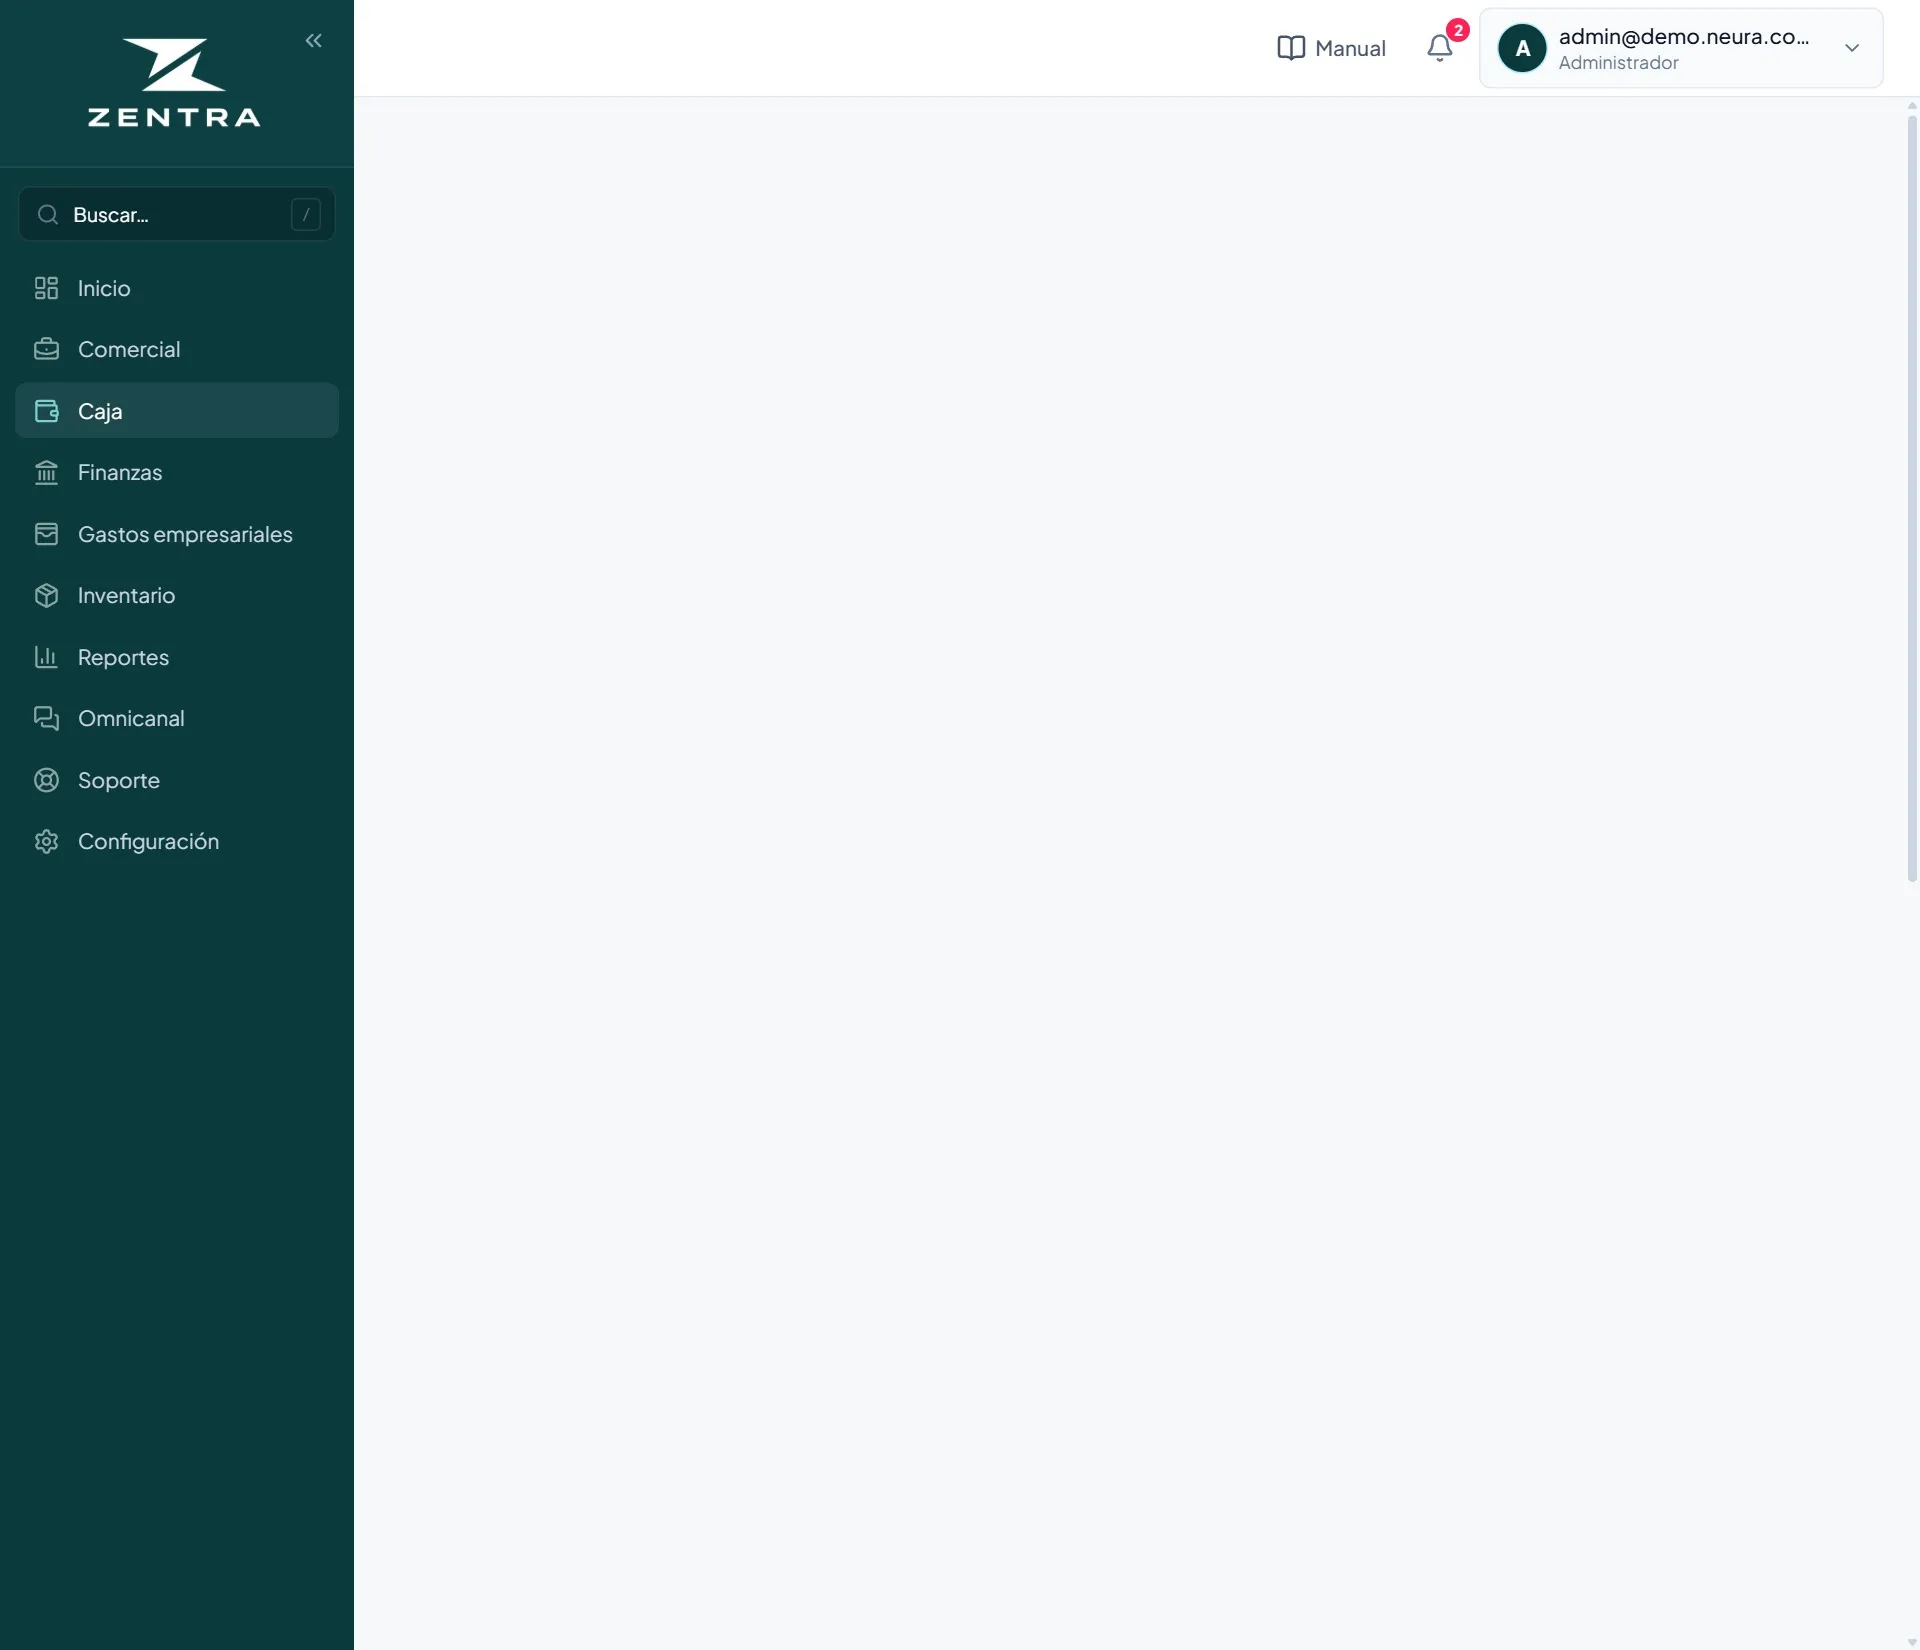
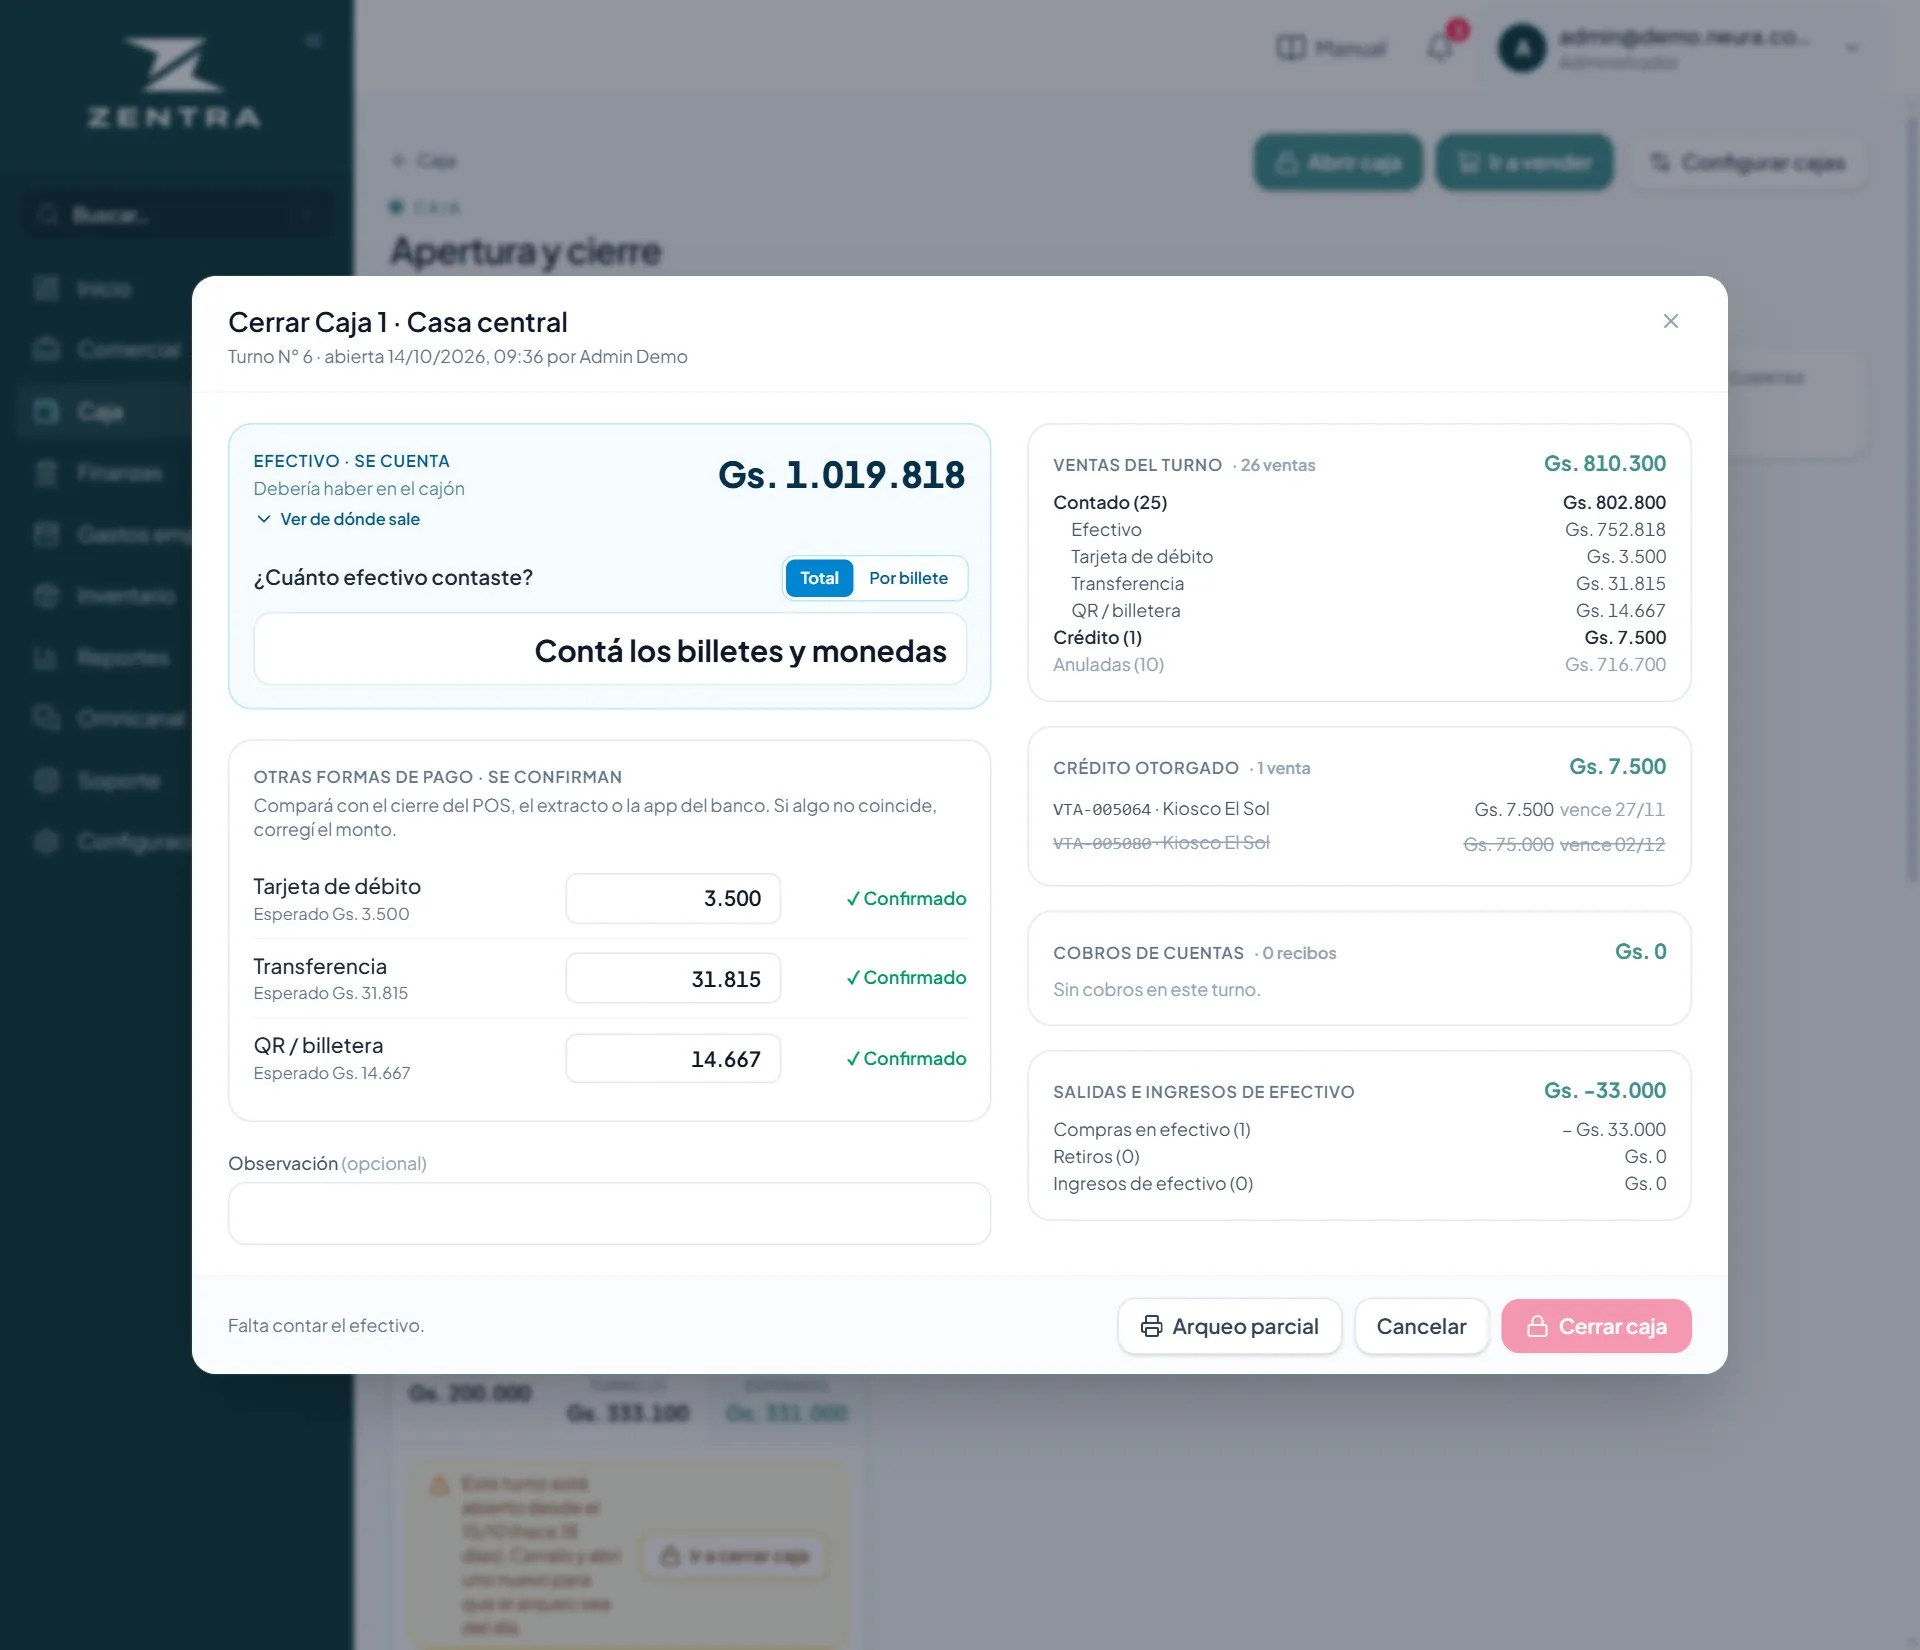
fix(2.0/manual): corrige capturas de Comercio y el texto de Reportes
Cerrar caja salia en blanco y Venta a credito con Contado marcado. Productos ya no muestra materias primas ni fabricados en Comercio. Reportes ya no nombra un boton que no se ve.

diff --git a/src/modules/manual/contenido.ts b/src/modules/manual/contenido.ts
@@ -657,7 +657,7 @@ export const GUIAS: Guia[] = [
     id: "reportes", grupo: "Reportes", ruta: "/reportes", titulo: "Sacar un reporte", resumen: "Todos los números, en Excel o PDF.",
     bloques: [
       { img: "reportes", alt: "Lista de reportes", pasos: [
-        { t: "Entrá a Reportes y tocá Ver reporte en el que necesitás. Ponele las fechas, y bajalo en Excel o PDF.", marca: "Ver reporte" },
+        { t: "Entrá a Reportes y tocá la tarjeta del que necesitás. Ponele las fechas, y bajalo en Excel o PDF.", marca: "Estado de cuenta" },
         { t: "Cierre de caja por día: cuánto se vendió y cobró cada día.", marca: "Cierre de caja por día" },
         { t: "Productos vendidos: qué se vende más y cuánto te deja.", marca: "Productos vendidos" },
         { t: "Cuentas por cobrar y por pagar: lo que te deben y lo que debés.", marca: "Cuentas por cobrar" },
